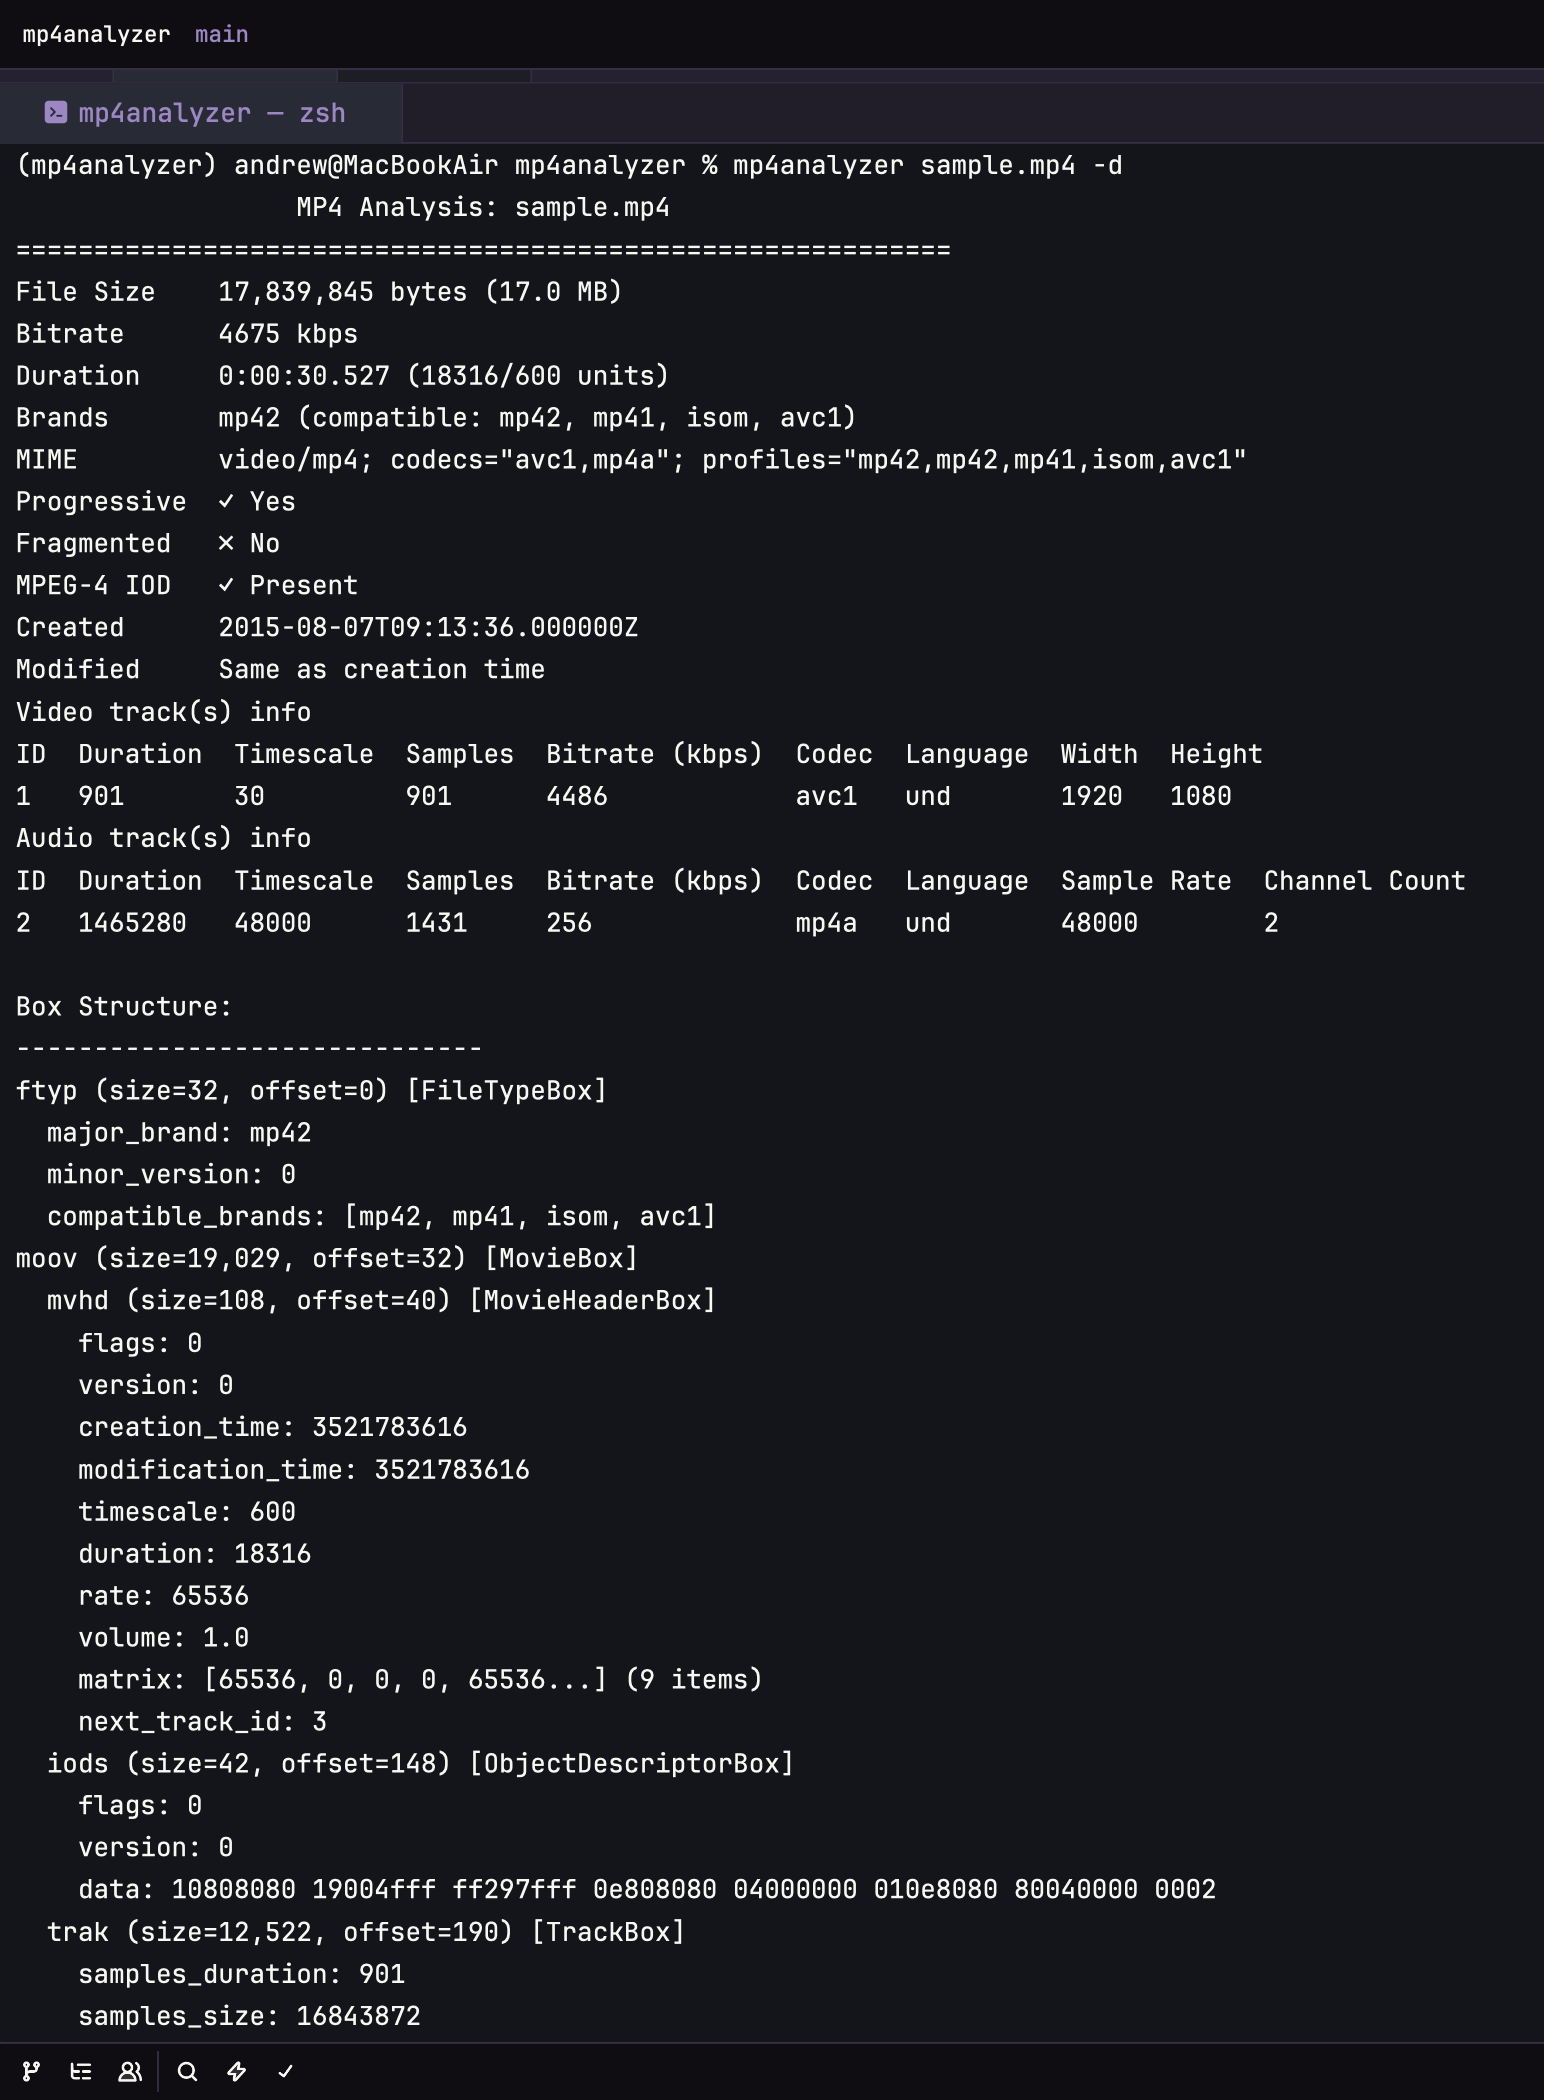
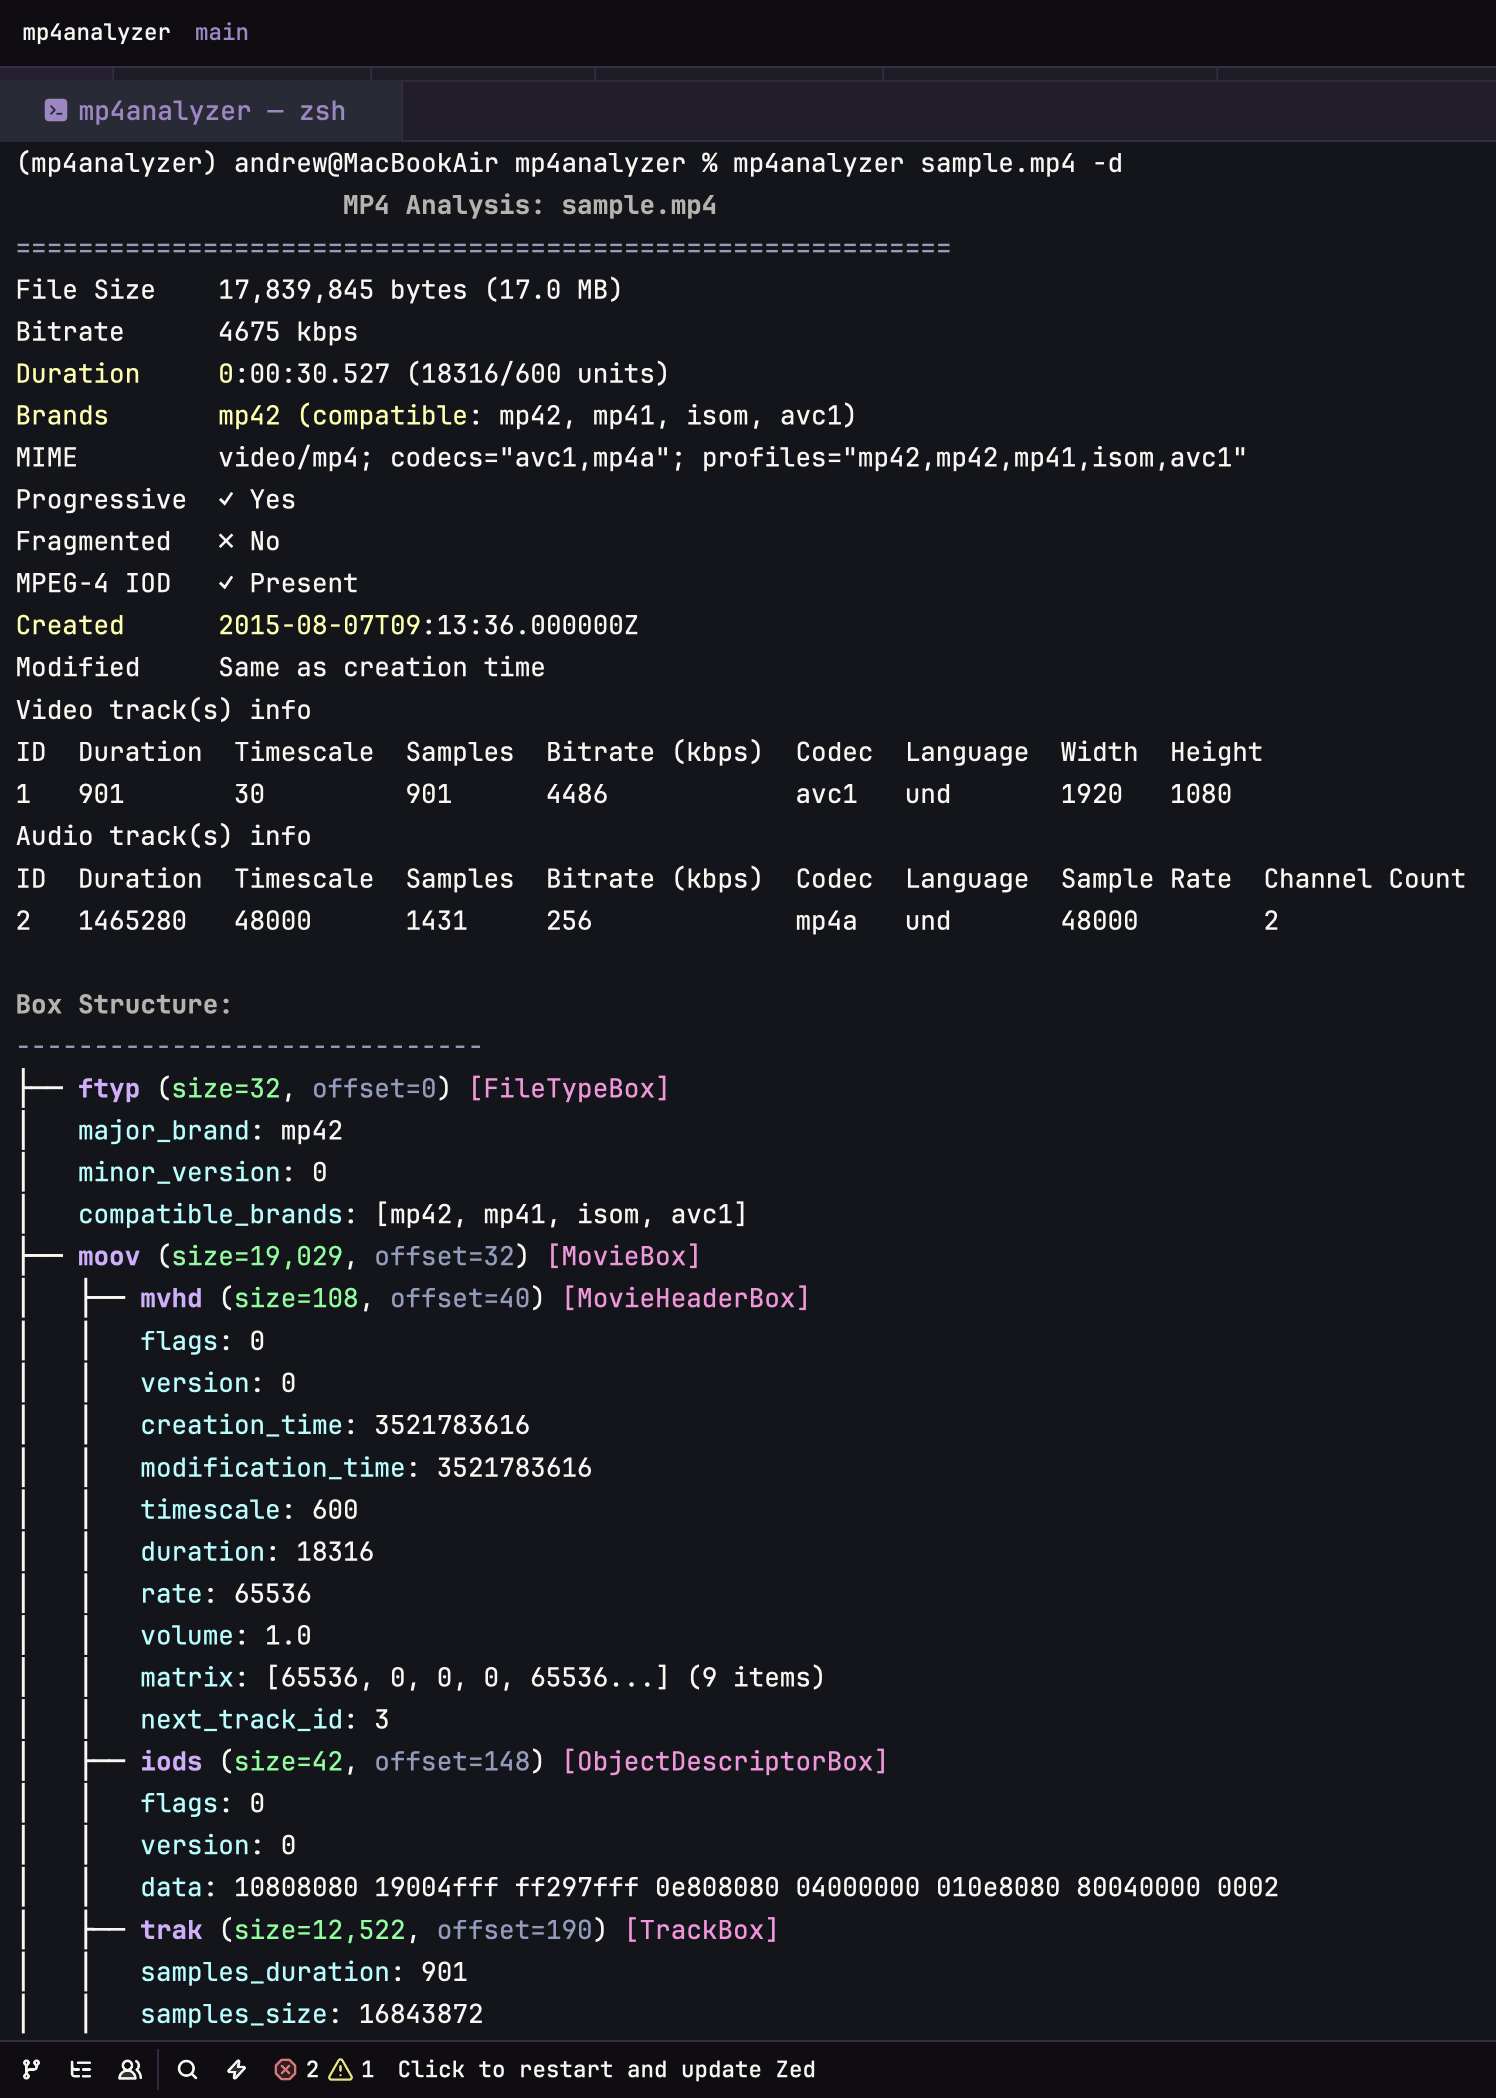
upate readme + new images

diff --git a/README.md b/README.md
@@ -33,7 +33,7 @@ pip install mp4analyzer
 
 ### CLI Help
 ```
-usage: mp4analyzer [-h] [-o {stdout,json}] [-d] [-s] [-j JSON_PATH] file
+usage: mp4analyzer [-h] [-o {stdout,json}] [-d] [-s] [-e] [-c | --no-color] [-j JSON_PATH] file
 
 Analyze MP4 files and display metadata information
 
@@ -46,15 +46,21 @@ options:
                         Output format (default: stdout)
   -d, --detailed        Show detailed box properties and internal fields
   -s, --summary         Show concise summary instead of full analysis
+  -e, --expand          Expand all arrays and large data structures
+  -c, --color           Enable colored output (default: True)
+      --no-color        Disable colored output
   -j JSON_PATH, --json-path JSON_PATH
-                        Path to save JSON output. If specified, JSON will be saved even if output format is not json
+                        Path to save JSON output. If specified, JSON will be saved even if
+                        output format is not json.
 
 Examples:
-  mp4analyzer video.mp4                    # Basic analysis
+  mp4analyzer video.mp4                    # Basic analysis with color
   mp4analyzer -d video.mp4                 # Detailed view with box properties
   mp4analyzer -s video.mp4                 # Quick summary
-  mp4analyzer -o json video.mp4            # JSON output
-  mp4analyzer -j output.json video.mp4     # Save JSON to file
+  mp4analyzer -e -d video.mp4              # Expand arrays/matrices in details
+  mp4analyzer --no-color video.mp4         # Disable ANSI colors
+  mp4analyzer -o json video.mp4            # JSON to stdout
+  mp4analyzer -j output.json video.mp4     # Save JSON to file (in addition to stdout)
 ```
 
 ### GUI Application
